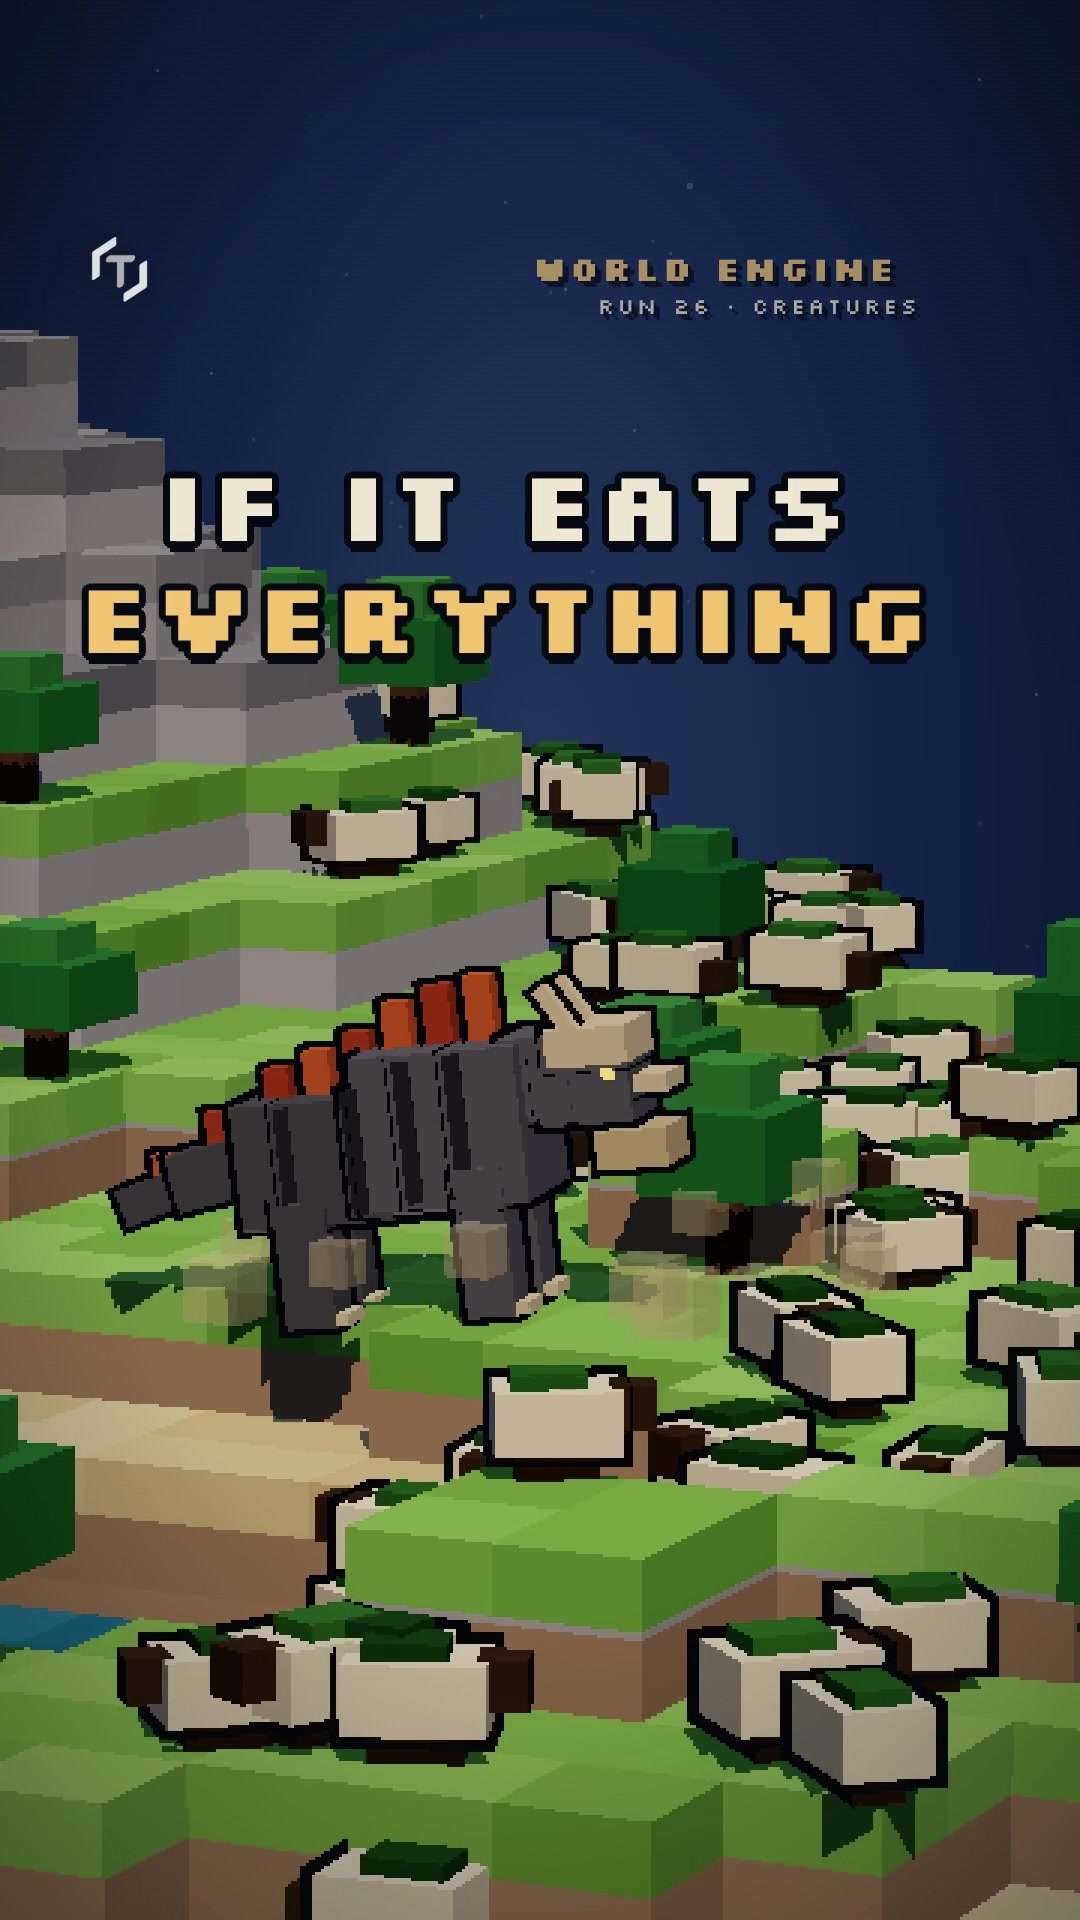
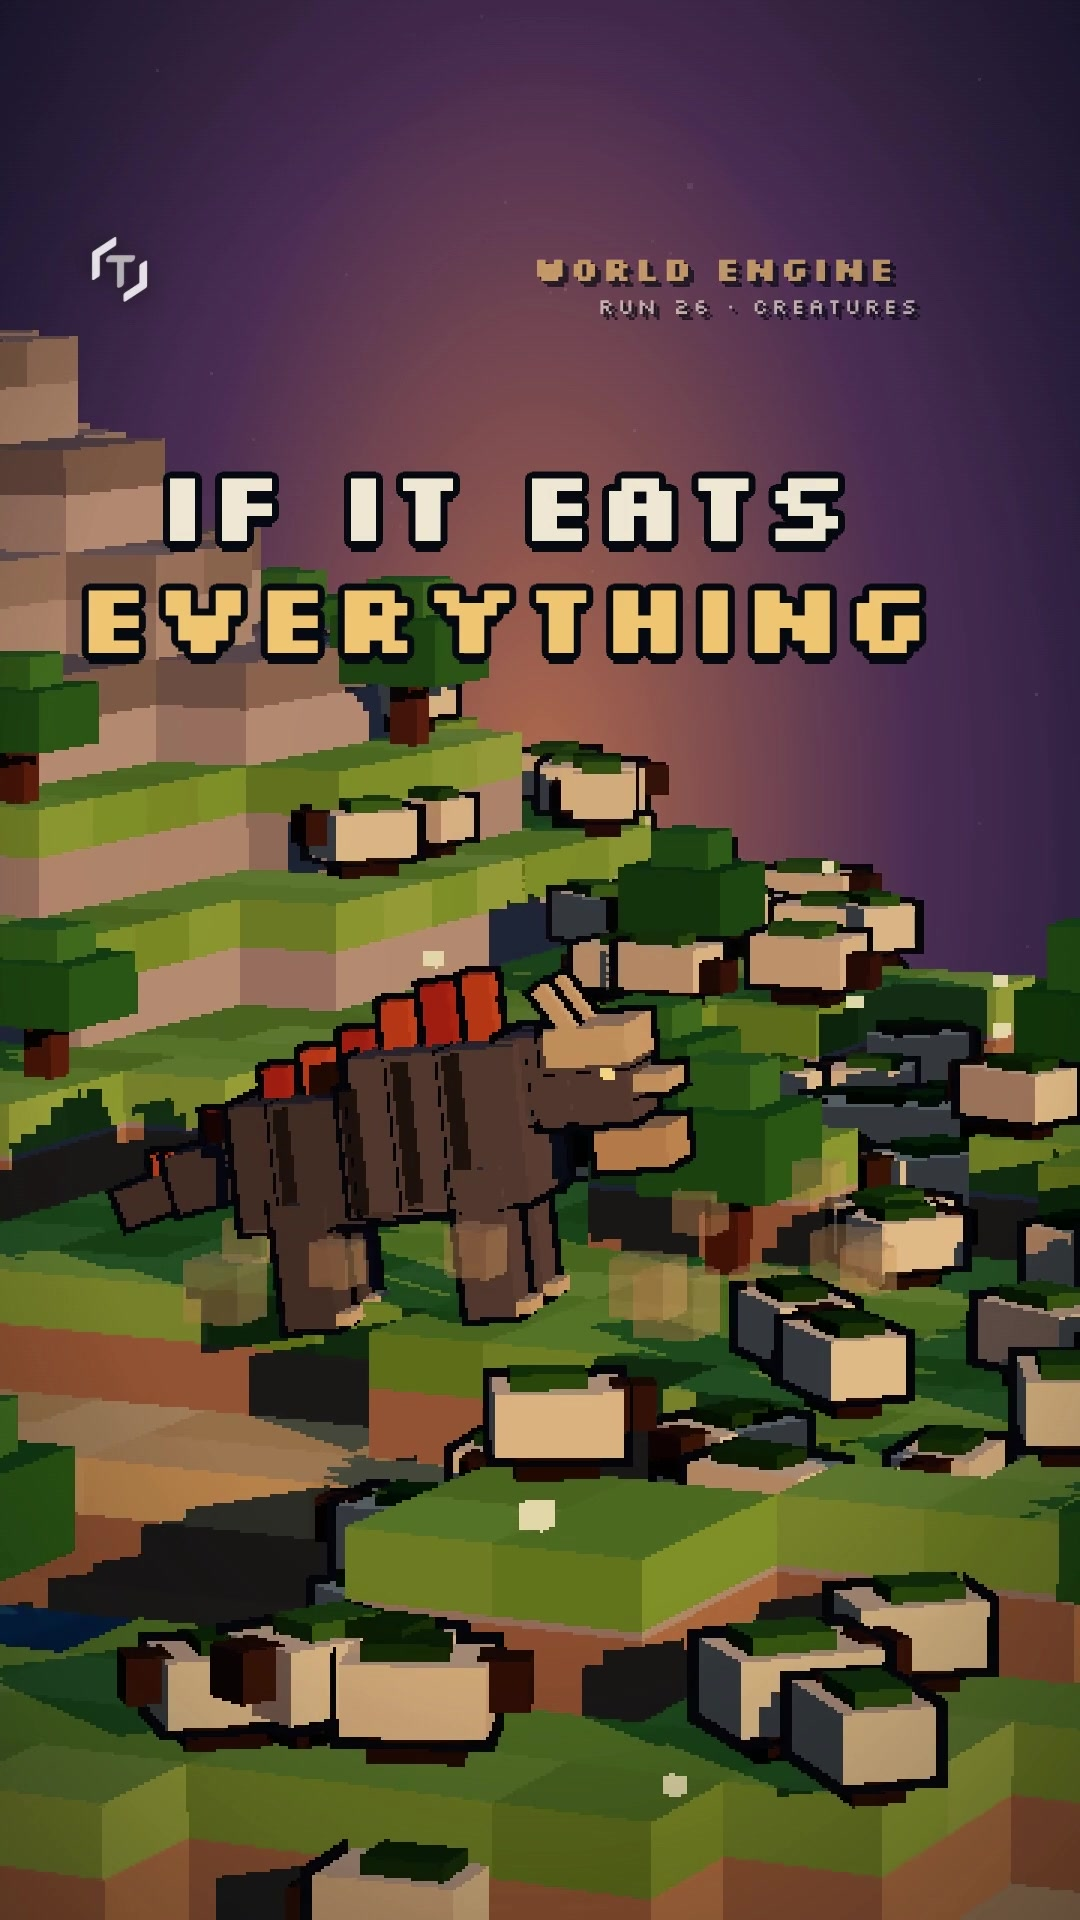
EP26 v3: final render verified, golden cover, brief section 6
- cover: the golden hook at 1.5 s, mid-roar, from the final master
- brief: v3 verification (QA passed on master, compat, download and
  player, 61.01 s, -14.0 LUFS; the loop seam ~1.4/255 vs ~16 before;
  the published download reads back byte-identical; render 19 min;
  Season 1 audio and stills identical; the CI fix)

Claude-Session: https://claude.ai/code/session_01BpyfAQWorSJHhvwpGwmSBh

diff --git a/episodes/ep26/BRIEF.md b/episodes/ep26/BRIEF.md
@@ -208,7 +208,34 @@ Everything is in `docs/SEASON2_RESEARCH.md` (sources read 1 Nov 2026, with unver
 
 ## 6. Final video and verification
 
-**v2 (2 Nov 2026), the current files:**
+**v3 (2 Nov 2026), the current files:**
+- **QA:** `qa.py` **passed** on all four copies, each 61.01 s, −14.0 LUFS, TP −1.4 dB:
+  - master: 51.7 MB;
+  - compat: 44.7 MB;
+  - download: two-pass 1,600k, 14.2 MB;
+  - player: two-pass 1,300k, 11.9 MB.
+- **The loop:** frame 0 against the master's last frame now differs by **about 1.4/255** on average, mostly compression noise (stills: under 0.5). The first v3 render differed by about 16/255, before the sim-time reset and the loop-periodic ambient motion.
+- **Preview page:** version 5, https://claude.ai/artifact/CQMMgqMj4M6J1cjkLtCxRe.
+  - The download reads back byte-identical (sha256 `95f9f1d1…`) and passes `qa.py`.
+  - The player is asset `/_blob/721c63c986e62e85f7b006c3c4c87181`.
+  - Version 4 briefly showed the first v3 render. Its asset and v2's were deleted after being replaced.
+- **Render:** 19 min 7 s (the first v3 render took 18 min 16 s) with `--gl=swangle`. v2 took 12 min; full shadows and ambient life cost about 50 %.
+- **Inspected:**
+  - the contact sheets of both v3 renders;
+  - master frames at 0, 0.3, 50.3, 53.4, 57.07, 58.5, 59.25, 59.6 and 60.4 s, and the last frame (the follow press, the dragon's shadow over the Grimmaw and herd, the title handover, the loop);
+  - stills of every beat after the shadow fix (dusk, gloom, the den and winter all still read).
+- **Sound (measured):**
+  - −14.05 LUFS, voice/music 13.9 LU;
+  - the chime 6–7 LU under the voice and above the music at frame 0, at the lesson card and at the follow press;
+  - the music holds to the loop point with an 80 ms click-free fade; the mix's last 10 ms sit at −41 dB.
+- **Season 1:**
+  - EP24 and EP25 `music.wav`, `sfx.wav` and `mix.wav` rebuild **bit-identical**;
+  - their frame-300 stills are **byte-identical** to the references.
+- **Cover:** `Worldcraft_Short_E26_cover.jpg`, the golden hook at 1.5 s, mid-roar, with the sting.
+- **CI (PR #5):** the `render` check failed at the score step ("No General MIDI SoundFont found"), because the workflows never installed Season 2's FluidSynth + SoundFont. Fixed in `render.yml` and both posting workflows: the packages, `--gl=swangle` for Season 2, timeouts 90 min.
+- **Not verifiable by me:** how the chime, the tease and the dragon pass actually sound. Please listen to the last 8 seconds and the loop into frame 0.
+
+**v2 (2 Nov 2026), superseded:**
 - **QA:** `qa.py` **passed** on the master (49.1 MB), compat (42.2 MB), download (two-pass 1,600k, 14.1 MB) and player (two-pass 1,300k, 11.9 MB). All are 60.35 s, −14.0 LUFS, TP −1.4 dB.
 - **Preview page:** the download copy published on the same page (version 3, https://claude.ai/artifact/CQMMgqMj4M6J1cjkLtCxRe) reads back byte-identical (sha256 `5d3b4d5d…`) and passes `qa.py`. The player is asset `/_blob/bd011c29ae5d5ce855c3ade80b3d42fa`; the v1 player asset was deleted after it was replaced.
 - **Render:** 716 s.
